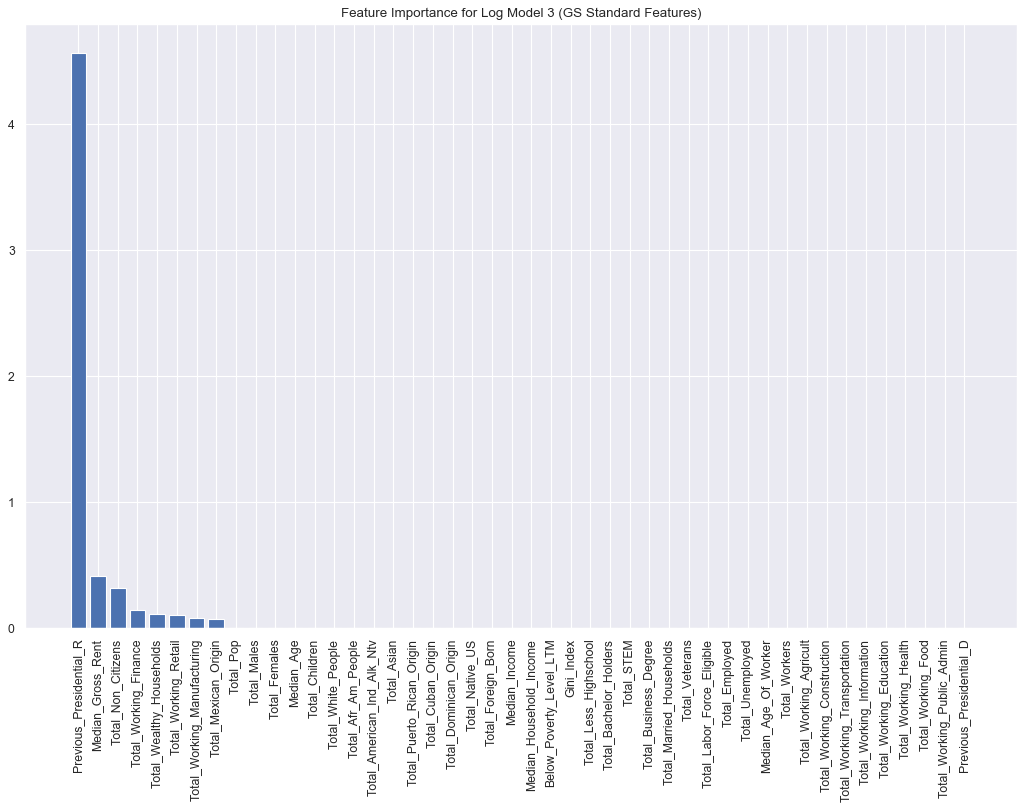
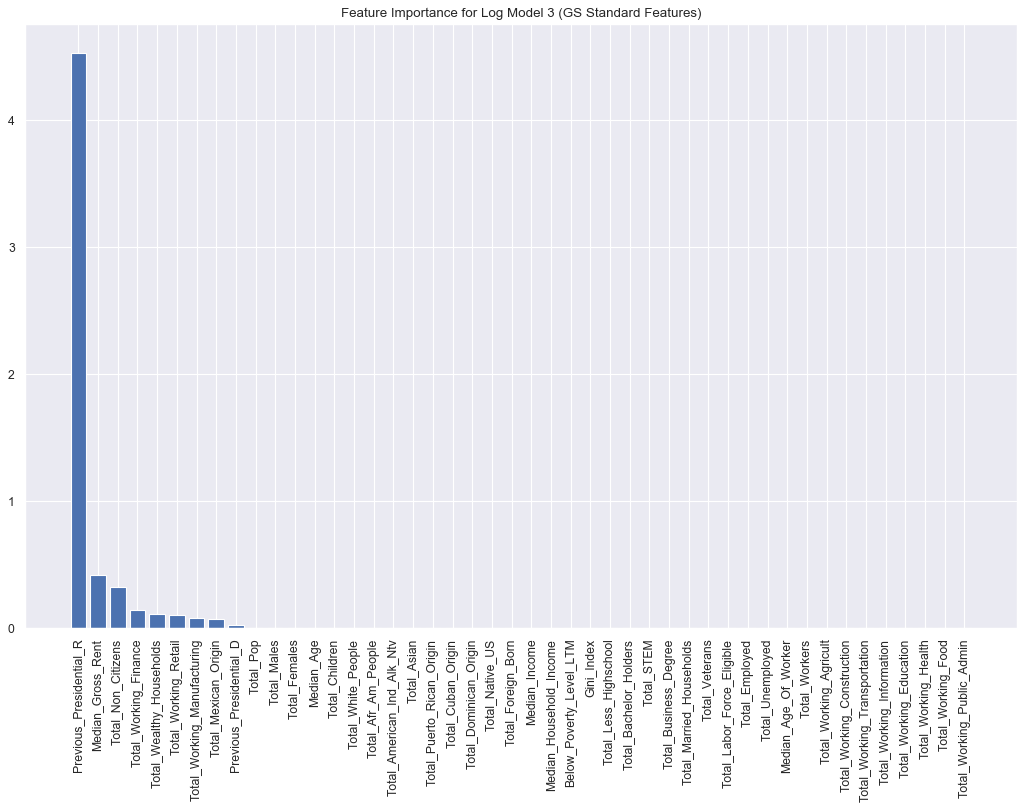
Updated models ad images

Changed region(s): [[0.2173, 0.7716, 0.9622, 0.9877]]

diff --git a/README.md b/README.md
@@ -1,3 +1,41 @@
-# Predicting_Election_Results_With_Census_Data
-In This Project I create categorical predictors to determine the 2016 election results with socio-economic data from the US Census Bureau.
+# Predicting Election Results With Census Data
 
+In this project I utilize categorical models to predict whether a congressional district voted for the Republican Party's presidential candidate in 2012 and 2016 based on US census data. 
+
+
+The following files/folders are included in this repository:
+
+	1. Census_Data_API_Work.ipynb 
+	2. Classification_Models _Previous_Results.ipynb 
+	3. Classification_Models _Census_Data_Only.ipynb
+	4. congressional_data_and_targets.csv 
+	5. election_results.csv 
+6. Images
+
+
+The process for this project was as follows:
+
+1. Obtain demographic data and presidential election results for each congressional district from the US Census API
+
+2. Set up the data frame
+
+3. Perform EDA and create engineered features
+
+4. Perform categorical models on the data frame
+
+5. Summarize the results
+
+
+### Part 1: Obtain the data
+
+The API calls and data frame creation are contained in the file ‘Census_Data_API_Work.ipynb’. I utilized the US Census Bureau’s API to obtain my data. There are several surveys available on their API, I chose to use the annual version of the “American Community Survey” (ACS) for my analysis. The 2011 and 2015 surveys were published in October of 2012 and 2016, respectively. This is the most current and readily available data prior to Election Day in November.
+
+National election results are reported on the precinct level (a precinct can be as small as a few city blocks or as large as an entire county). I performed my analysis on the congressional district level because the census API has demographic information readily available at this level. The county level API calls return incomplete information for less than half of US counties. The US Census API contains data from 2010 forward, which I why this project only utilizes data points from the last two elections. 
+
+I obtained the congressional district election results from an excel file by Stephen Wolf, a reporter for the Daily Kos. The election results are stored in the file titled “election_results.csv”.  The file “congressional_data_and_targets.csv” contains the merged 2016 and 2012 election results and census data.
+
+I then created a unique identifier for each congressional district by election year for differentiation purposes. Lastly I removed the 14 districts that returned ‘NaN’ values in the election results columns. These districts became obsolete between the 2012 and 2016 elections and therefore had no values in the target columns.
+
+### Part 2: Set up the data frame
+
+The two notebooks “Classification_Models_Previous_Results.ipynb” and “Classification_Models _Census_Data_Only.ipynb” contain the data frame setup, EDA and modeling process for my analysis both with and without the congressional district’s previous election cycle results. Each file follows the exact same format. The sole difference is that the data frames within Classification_Models_Previous_Results.ipynb” contain two columns representing the percentage of votes the district casted for the Democratic and Republican presidential candidates in the previous election cycle.
